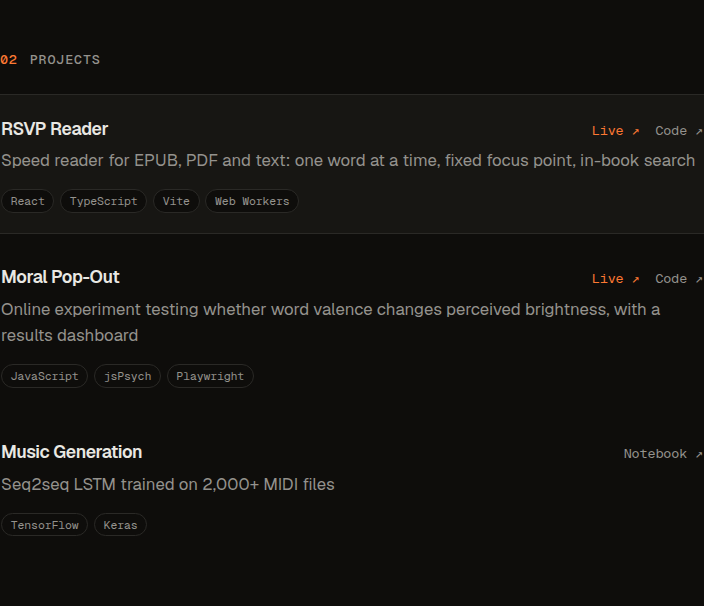
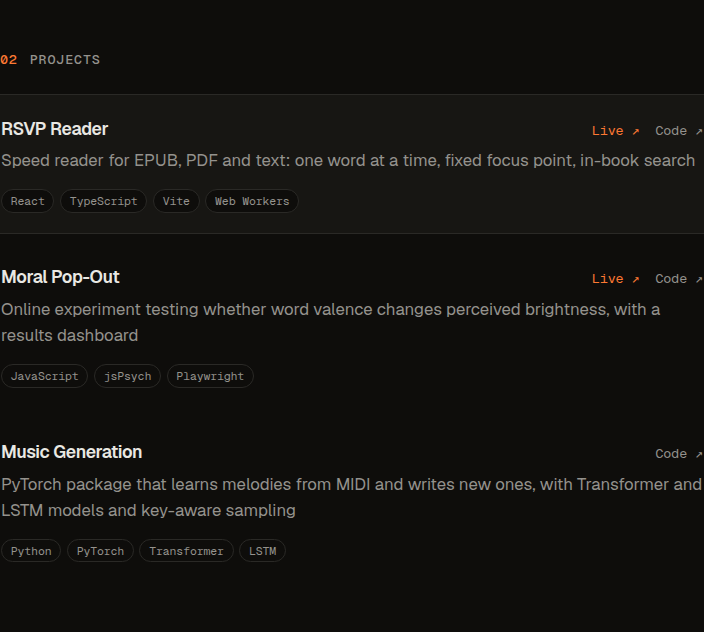
Point Music Generation at the new music-generator repo
Claude-Session: https://claude.ai/code/session_01QxkyRTb1gDNwdqBJMjFS2G

diff --git a/src/data/profile.ts b/src/data/profile.ts
@@ -137,9 +137,9 @@ export const projects: Project[] = [
   },
   {
     name: 'Music Generation',
-    blurb: 'Seq2seq LSTM trained on 2,000+ MIDI files',
-    stack: ['TensorFlow', 'Keras'],
-    source: 'https://colab.research.google.com/drive/1UsDg6tmIFOnkcv2W6baZCRSZXRJBvvjX?usp=sharing',
+    blurb: 'PyTorch package that learns melodies from MIDI and writes new ones, with Transformer and LSTM models and key-aware sampling',
+    stack: ['Python', 'PyTorch', 'Transformer', 'LSTM'],
+    source: 'https://github.com/Edwin580/music-generator',
   },
 ];
 
